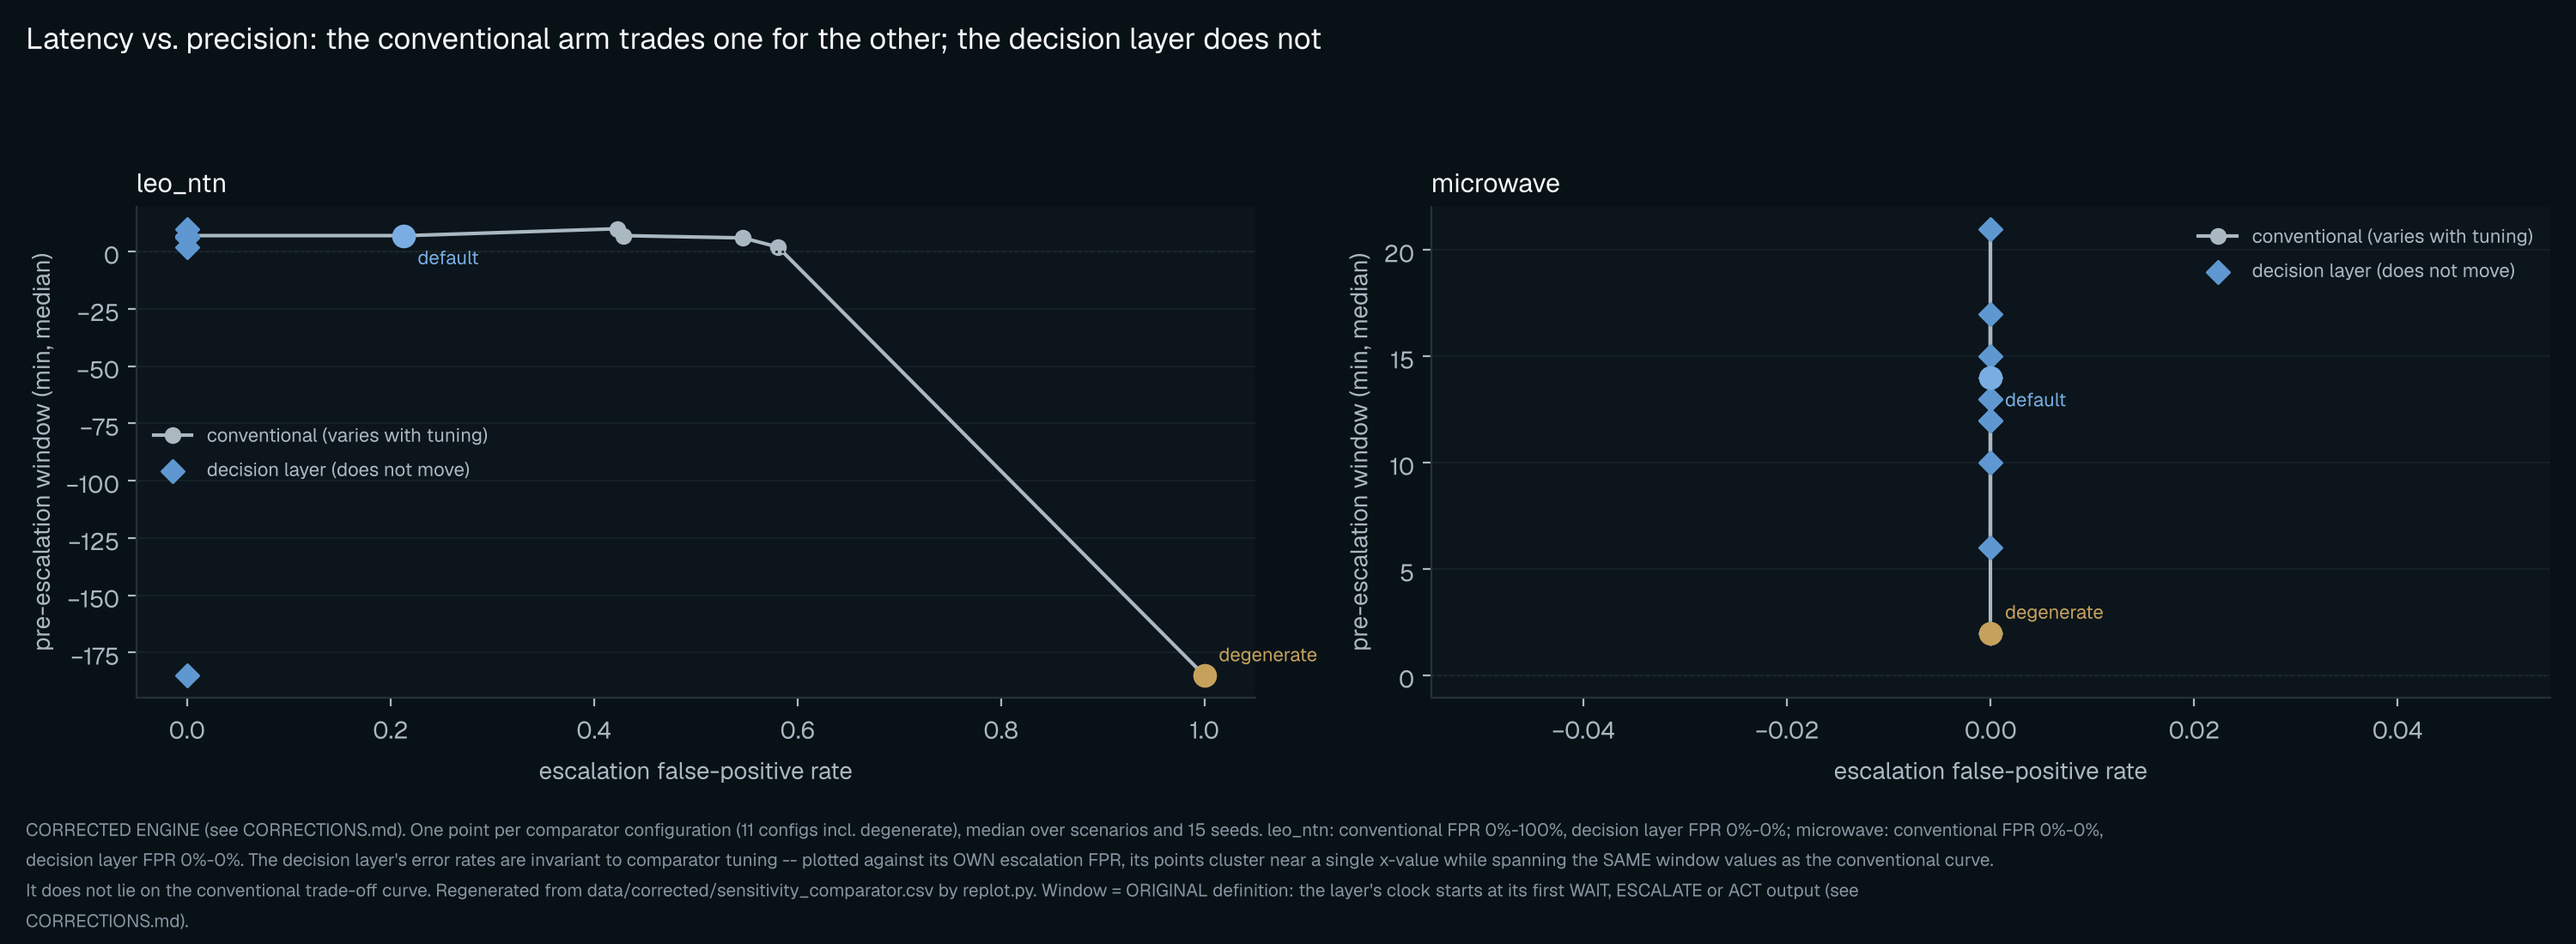
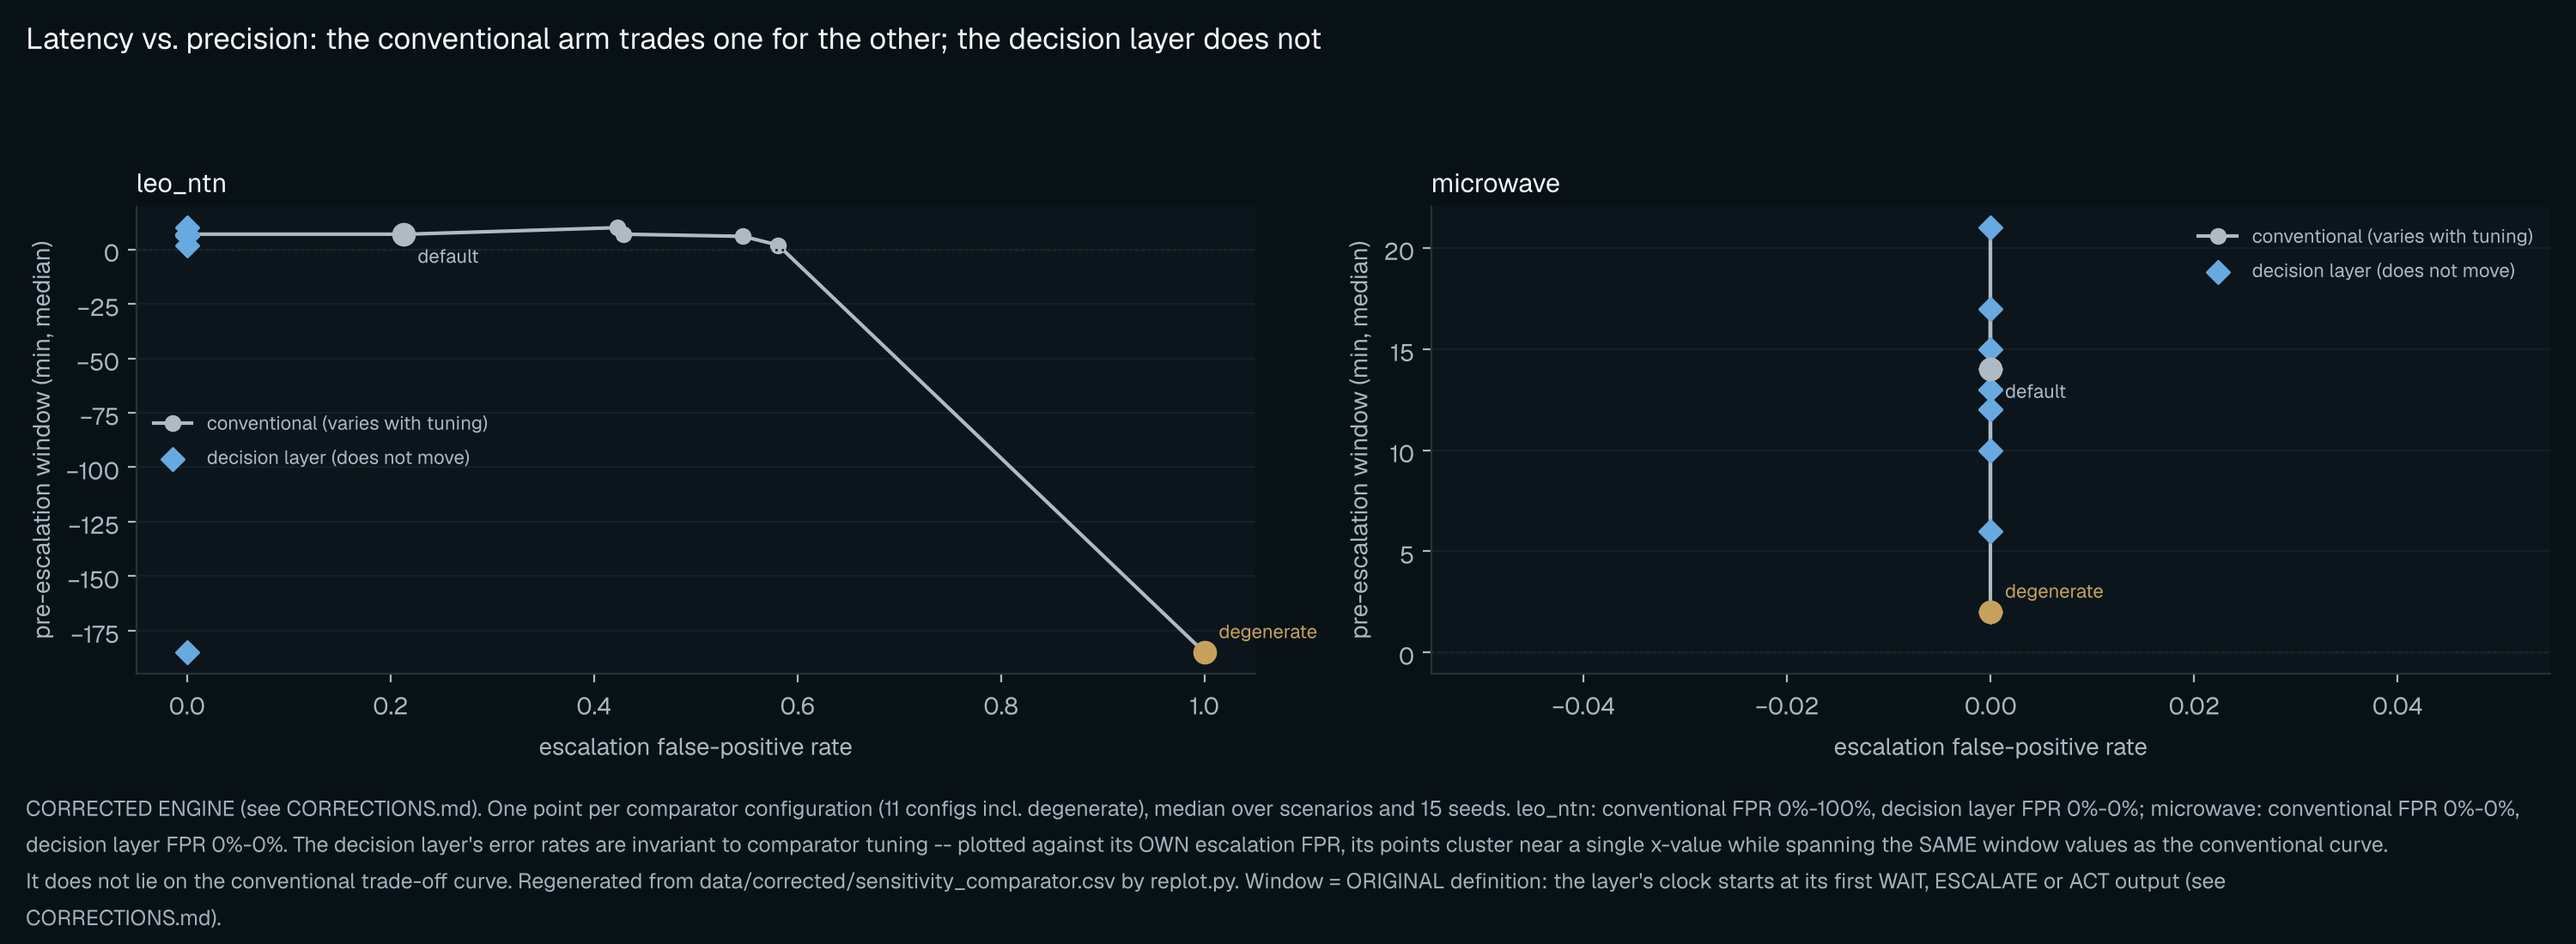
Figures: blue-and-gold palette with one colour rule, caption hierarchy
Claude-Session: https://claude.ai/code/session_01Rx9huHk5MnagFnVThWGEcc

diff --git a/article/article.css b/article/article.css
@@ -194,3 +194,10 @@ figure.fig figcaption { max-width: 78ch; line-height: 1.6; }
   html[data-brand='aidedge'] .paper-body h1 { font-size: 24px; margin-top: 64px; }
   html[data-brand='aidedge'] .paper-body h2 { font-size: 20px; margin-top: 44px; }
 }
+
+/* ---- figure captions: label / title / description are three distinct levels; gold marks the label ---- */
+.fig-num { color: var(--gold); }
+figure.fig figcaption { color: var(--ui-text-3); }
+figure.fig figcaption strong:first-of-type { display: block; margin: 2px 0 6px; font-size: var(--ui-fs-body); font-weight: 600; line-height: 1.35; color: var(--ui-text-1); }
+figure.fig a.fig-open img { transition: border-color 0.2s; }
+figure.fig a.fig-open:hover img { border-color: var(--gold-line); }

diff --git a/replot.py b/replot.py
@@ -111,10 +111,10 @@ def fig_pre_escalation_window(df: pd.DataFrame, out: Path, col: str = "lead_gain
     bp = _boxplot(ax, data, plotted, horizontal=True, patch_artist=True, widths=0.6, positions=pos)
     for patch, s in zip(bp["boxes"], plotted):
         patch.set_facecolor(PALETTE["decision"] if s.startswith("leo") else PALETTE["accent"])
-        patch.set_alpha(0.65)
+        patch.set_alpha(PALETTE.get("box_alpha", 0.65))
     for med in bp["medians"]:
         med.set_color(PALETTE["median"])
-    ax.axvline(0, color=PALETTE["bad"], linewidth=1, linestyle=":")
+    ax.axvline(0, color=PALETTE.get("zero", PALETTE["bad"]), linewidth=1, linestyle=":")
     if CORRECTED:
         ax.set_yticks(range(1, len(scen_all) + 1))
         ax.set_yticklabels(scen_all)
@@ -134,6 +134,11 @@ def fig_pre_escalation_window(df: pd.DataFrame, out: Path, col: str = "lead_gain
             else:
                 ax.text(0.995, i, f"n={int(sub[col].notna().sum())}/{len(sub)}", transform=edge, va="center",
                         ha="right", fontsize=8.5, color=PALETTE["footer"])
+    if CORRECTED:
+        from matplotlib.patches import Patch
+        ax.legend(handles=[Patch(facecolor=PALETTE["decision"], alpha=0.65, label="LEO/NTN scenarios"),
+                           Patch(facecolor=PALETTE["accent"], alpha=0.65, label="microwave scenarios")],
+                  loc="lower right", bbox_to_anchor=(1.0, 1.0), ncol=2, frameon=False, fontsize=9)
     if like_for_like:
         ax.set_xlabel("like-for-like window (min)  =  conventional escalation - decision-layer ESCALATE/ACT")
         head = "Like-for-like pre-escalation window by scenario"
@@ -142,11 +147,12 @@ def fig_pre_escalation_window(df: pd.DataFrame, out: Path, col: str = "lead_gain
         head = "Pre-escalation window by scenario" + (" (ORIGINAL definition)" if CORRECTED else "")
     _style(ax)
     if CORRECTED:
-        ax.set_title(f"{head} (n = runs with a resolved window / runs)", fontsize=12, loc="left")
+        ax.set_title(head, fontsize=12, loc="left")
     else:
         sz = df[df[col].notna()].groupby("scenario").size()
         ax.set_title(f"{head} (n={sz.min()}-{sz.max()} seeds each)", fontsize=12, loc="left")
-    n_lines = _footer(fig, "Box = IQR, line = median, whiskers = 1.5 IQR. Values below zero mean the "
+    n_lines = _footer(fig, ("n = runs with a resolved window / runs. " if CORRECTED else "")
+                           + "Box = IQR, line = median, whiskers = 1.5 IQR. Values below zero mean the "
                            "conventional baseline escalated FIRST. Regenerated from data/runs.csv by replot.py.",
                       original_window=CORRECTED and not like_for_like, wrap=True)
     if CORRECTED:
@@ -182,7 +188,7 @@ def fig_cross_domain(df: pd.DataFrame, out: Path) -> Optional[Path]:
         bp = _boxplot(ax, vals, tick_labels, patch_artist=True, widths=0.5)
         for patch, lab in zip(bp["boxes"], labels):
             patch.set_facecolor(PALETTE["decision"] if lab == "leo_ntn" else PALETTE["accent"])
-            patch.set_alpha(0.65)
+            patch.set_alpha(PALETTE.get("box_alpha", 0.65))
         for med in bp["medians"]:
             med.set_color(PALETTE["median"])
         ax.set_title(label, fontsize=10)
@@ -355,6 +361,9 @@ def fig_severity_sensitivity(df: pd.DataFrame, out: Path) -> Optional[Path]:
     axes = axes[0]
     for ax, dom in zip(axes, domains):
         d = df[df["domain"] == dom]
+        dom_cycle = PALETTE.get("scenario_cycle", {}).get(dom)
+        if dom_cycle:                                  # per-domain hue family; lines still differ by style
+            ax.set_prop_cycle(color=dom_cycle, linestyle=["-", "--", "-.", ":", "-"])
         for scen in sorted(d["scenario"].unique()):
             ds = d[d["scenario"] == scen]
             g = ds.groupby("severity_multiplier")["pre_escalation_window_min"]
@@ -362,7 +371,7 @@ def fig_severity_sensitivity(df: pd.DataFrame, out: Path) -> Optional[Path]:
             x = med.index.values
             ax.plot(x, med.values, marker="o", label=scen, linewidth=1.5)
             ax.fill_between(x, p25.values, p75.values, alpha=0.12)
-        ax.axhline(0, color=PALETTE["bad"], linewidth=1, linestyle=":")
+        ax.axhline(0, color=PALETTE.get("zero", PALETTE["bad"]), linewidth=1, linestyle=":")
         ax.set_xlabel("severity multiplier (relative to declared severity)")
         ax.set_ylabel("pre-escalation window (min, median +/- IQR)")
         ax.set_title(dom, fontsize=11, loc="left")
@@ -396,11 +405,11 @@ def fig_comparator_sensitivity(df: pd.DataFrame, out: Path) -> Optional[Path]:
         data.append(degenerate["pre_escalation_window_min"].dropna().values)
         bp = _boxplot(ax, data, labels, patch_artist=True, widths=0.6)
         for patch, lab in zip(bp["boxes"], labels):
-            patch.set_facecolor(PALETTE["bad"] if lab == "degenerate" else PALETTE["accent"])
-            patch.set_alpha(0.65)
+            patch.set_facecolor(PALETTE.get("degenerate", PALETTE["bad"]) if lab == "degenerate" else PALETTE.get("pooled", PALETTE["accent"]))
+            patch.set_alpha(PALETTE.get("box_alpha", 0.65))
         for med in bp["medians"]:
             med.set_color(PALETTE["median"])
-        ax.axhline(0, color=PALETTE["bad"], linewidth=1, linestyle=":")
+        ax.axhline(0, color=PALETTE.get("zero", PALETTE["bad"]), linewidth=1, linestyle=":")
         ax.set_xlabel(label, fontsize=9)
         ax.set_ylabel("pre-escalation window (min)")
         _style(ax)
@@ -494,7 +503,7 @@ def fig_latency_precision_tradeoff(df: pd.DataFrame, out: Path) -> Optional[Path
         ax.plot([p[0] for p in conv_pts], [p[1] for p in conv_pts], color=PALETTE["conventional"],
                 marker="o", linewidth=1.5, label="conventional (varies with tuning)", zorder=2)
         for fpr, window, kind in markers:
-            colour = PALETTE["bad"] if kind == "degenerate" else PALETTE["accent"]
+            colour = PALETTE.get("degenerate", PALETTE["bad"]) if kind == "degenerate" else PALETTE.get("pooled", PALETTE["accent"])
             ax.scatter([fpr], [window], color=colour, zorder=4, s=80)
             ax.annotate(kind, (fpr, window), textcoords="offset points",
                         xytext=(6, 6 if kind == "degenerate" else -12), fontsize=8, color=colour)

diff --git a/replot_dark.py b/replot_dark.py
@@ -48,15 +48,28 @@ BODY = "#B3BFCA"       # table body / strong labels
 MUTED = "#AAB8C2"      # tick + axis labels
 FAINT = "#8794A0"      # footers, whiskers, de-emphasised marks
 
+# Colour roles (one rule for the whole article):
+#   brand blue  = LEO/NTN series, and the decision-layer arm where arms are compared
+#   gold        = microwave series (second series), and the highlighted "degenerate" comparator
+#   neutral     = conventional arm, pooled comparator configurations, reference lines
+# Colour separates series only; it never encodes better/worse. The two roles of gold sit in different figures
+# (domain figures vs comparator figures) and every caption says which is meant.
 DARK_PALETTE = {
-    "conventional": "#AAB8C2",
-    "decision": "#5F98D1",   # LEO/NTN series and the decision arm (Velorona accent)
-    "accent": "#7AAEE3",     # microwave series, "default" markers (Velorona secondary)
-    "warn": "#C6A15B",       # ticket (AID Edge gold)
-    "bad": "#C6A15B",        # zero-reference lines and the degenerate case
+    "conventional": "#AEBBC5",
+    "decision": "#68A9E0",   # brand blue
+    "accent": "#C6A15B",     # AID Edge gold: microwave series, timeline markers
+    "warn": "#C6A15B",       # ticket marker
+    "bad": "#E6EDF3",        # service-impact marker (neutral highlight; gold and blue already carry roles)
+    "zero": "#8794A0",       # zero-reference lines
+    "pooled": "#AEBBC5",     # pooled comparator configurations (no domain split)
+    "degenerate": "#C6A15B", # the degenerate comparator, highlighted
     "grid": "#1B252C",
-    "median": "#DCE4EB",
-    "footer": FAINT,
+    "median": "#E6EDF3",
+    "footer": "#A3B0BB",
+    "box_alpha": 0.85,
+    # fig 15: scenarios inside one panel share the panel's domain hue (blue family for LEO/NTN, gold family for microwave)
+    "scenario_cycle": {"leo_ntn": ["#68A9E0", "#9CC8EE", "#4B86BC", "#C9DDF0", "#8AA9C4"],
+                       "microwave": ["#C6A15B", "#DDBF85", "#9E7E3F", "#EBD9B0", "#B8A57F"]},
 }
 
 GEIST_FILES = ["Geist-Regular.ttf", "Geist-Medium.ttf", "Geist-SemiBold.ttf"]
@@ -128,6 +141,7 @@ def _wrap_footer(fig) -> float:
         return 0.0
     r = _renderer(fig)
     t.set_va("bottom")
+    t.set_fontsize(9)
     t.set_position((0.01, 0.008))
     W = fig.get_figwidth() * fig.dpi * 0.965
     w = t.get_window_extent(r).width

diff --git a/CHANGELOG.md b/CHANGELOG.md
@@ -1,5 +1,12 @@
 # Changelog
 
+## Blue-and-gold figure palette (presentation only; content version stays 1.1)
+
+- One colour rule for the article figures: brand blue `#68A9E0` = LEO/NTN series (and the decision-layer arm where arms are compared); gold `#C6A15B` = microwave series and the highlighted "degenerate" comparator; neutrals = conventional arm, pooled comparator configurations and reference lines. Colour separates series; it does not encode better or worse. Box fills are more opaque so gold reads as gold on the dark plate.
+- The severity chart uses a blue family in the LEO/NTN panel and a gold family in the microwave panel (lines also differ by style); the window chart gains a LEO/NTN vs microwave legend; in-figure footers are larger.
+- Captions: figure label (gold), title and description are separate levels.
+- Light-theme figure code reads the new palette keys with fallbacks, so the published-data figures are pixel-identical.
+
 ## Article reading refinements and version labels (2026-10-12; presentation only, content version stays 1.1)
 
 - `article/article.css`: a final block, using the same `html[data-brand]` selectors as the shared foundation (`ui-foundation.css`), so it wins over the foundation's marketing-copy text geometry: tighter heading leading and measures (section titles no longer wrap into stranded short lines), prose measure 62ch -> 70ch for technical text, the dashed notice box replaced by a hairline box with a gold rule, figure captions on a 78ch measure, more air in table rows, mobile heading sizes. No new colours; the foundation's left-anchored layout is kept.
